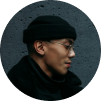
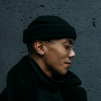
fix(testimonial): testimonial images issue fixed

diff --git a/src/pages/home/components/testimonial.tsx b/src/pages/home/components/testimonial.tsx
@@ -35,63 +35,63 @@ const Testimonial: FC = () => {
             alt='Image Description'
           />
           <ul className='hidden list-none md:block'>
-            <li className='2x:top-0 absolute -top-16 left-[300px] lg:-top-16 xl:-top-4 xl:left-[400px] 2xl:left-[500px]'>
+            <li className='2x:top-0 absolute -top-16 left-[300px] overflow-hidden rounded-full lg:-top-16 xl:-top-4 xl:left-[400px] 2xl:left-[500px]'>
               <img
                 className='h-16 w-16 lg:h-24 lg:w-24'
                 src={assetUrl('/assets/img/home/image1.png')}
                 alt='Image Description'
               />
             </li>
-            <li className='2x:right-80 2x:top-5 absolute -top-8 right-24 lg:-top-4 xl:right-60 xl:top-3'>
+            <li className='2x:right-80 2x:top-5 absolute -top-8 right-24 overflow-hidden rounded-full lg:-top-4 xl:right-60 xl:top-3'>
               <img
                 className='h-16 w-16 lg:h-24 lg:w-24'
                 src={assetUrl('/assets/img/home/image2.png')}
                 alt='Image Description'
               />
             </li>
-            <li className='absolute right-10 top-24 lg:right-0 lg:top-32 xl:right-32 xl:top-40 2xl:top-32'>
+            <li className='absolute right-10 top-24 overflow-hidden rounded-full lg:right-0 lg:top-32 xl:right-32 xl:top-40 2xl:top-32'>
               <img
                 className='h-16 w-16 lg:h-24 lg:w-24'
                 src={assetUrl('/assets/img/home/image3.png')}
                 alt='Image Description'
               />
             </li>
-            <li className='2x:right-72 absolute bottom-28 right-24 xl:bottom-60 xl:right-60 2xl:bottom-72'>
+            <li className='2x:right-72 absolute bottom-28 right-24 overflow-hidden rounded-full xl:bottom-60 xl:right-60 2xl:bottom-72'>
               <img
                 className='h-16 w-16 lg:h-24 lg:w-24'
                 src={assetUrl('/assets/img/home/image1.png')}
                 alt='Image Description'
               />
             </li>
-            <li className='2x:bottom-20 2x:right-56 absolute bottom-0 right-10 lg:right-0 xl:bottom-10 xl:right-40'>
+            <li className='2x:bottom-20 2x:right-56 absolute bottom-0 right-10 overflow-hidden rounded-full lg:right-0 xl:bottom-10 xl:right-40'>
               <img
                 className='h-16 w-16 lg:h-24 lg:w-24'
                 src={assetUrl('/assets/img/home/image3.png')}
                 alt='Image Description'
               />
             </li>
-            <li className='absolute bottom-0 right-[290px] lg:right-[390px] xl:bottom-10 xl:right-[490px] 2xl:bottom-24 2xl:right-[590px]'>
+            <li className='absolute bottom-0 right-[290px] overflow-hidden rounded-full lg:right-[390px] xl:bottom-10 xl:right-[490px] 2xl:bottom-24 2xl:right-[590px]'>
               <img
                 className='h-16 w-16 lg:h-24 lg:w-24'
                 src={assetUrl('/assets/img/home/image4.png')}
                 alt='Image Description'
               />
             </li>
-            <li className='absolute bottom-0 left-60 xl:bottom-10 xl:left-80 2xl:bottom-20 2xl:left-96'>
+            <li className='absolute bottom-0 left-60 overflow-hidden rounded-full xl:bottom-10 xl:left-80 2xl:bottom-20 2xl:left-96'>
               <img
                 className='h-16 w-16 lg:h-24 lg:w-24'
                 src={assetUrl('/assets/img/home/image3.png')}
                 alt='Image Description'
               />
             </li>
-            <li className='absolute left-16 top-60 xl:left-32 xl:top-72 2xl:left-48 2xl:top-72'>
+            <li className='absolute left-16 top-60 overflow-hidden rounded-full xl:left-32 xl:top-72 2xl:left-48 2xl:top-72'>
               <img
                 className='h-16 w-16 lg:h-24 lg:w-24'
                 src={assetUrl('/assets/img/home/image4.png')}
                 alt='Image Description'
               />
             </li>
-            <li className='absolute left-20 top-16 xl:top-28 2xl:left-56'>
+            <li className='absolute left-20 top-16 overflow-hidden rounded-full xl:top-28 2xl:left-56'>
               <img
                 className='h-16 w-16 lg:h-24 lg:w-24'
                 src={assetUrl('/assets/img/home/image3.png')}
@@ -204,7 +204,7 @@ const Testimonial: FC = () => {
               {[0, 1, 2].map((index) => (
                 <button
                   key={index}
-                  className={`h-1.5 w-1.5 rounded-full transition-colors ${
+                  className={`h-1.5 w-1.5 rounded-full outline-none transition-colors ${
                     activeIndex === index ? 'bg-white' : 'bg-stone-300'
                   }`}
                   onClick={() => handleBulletClick(index)}
